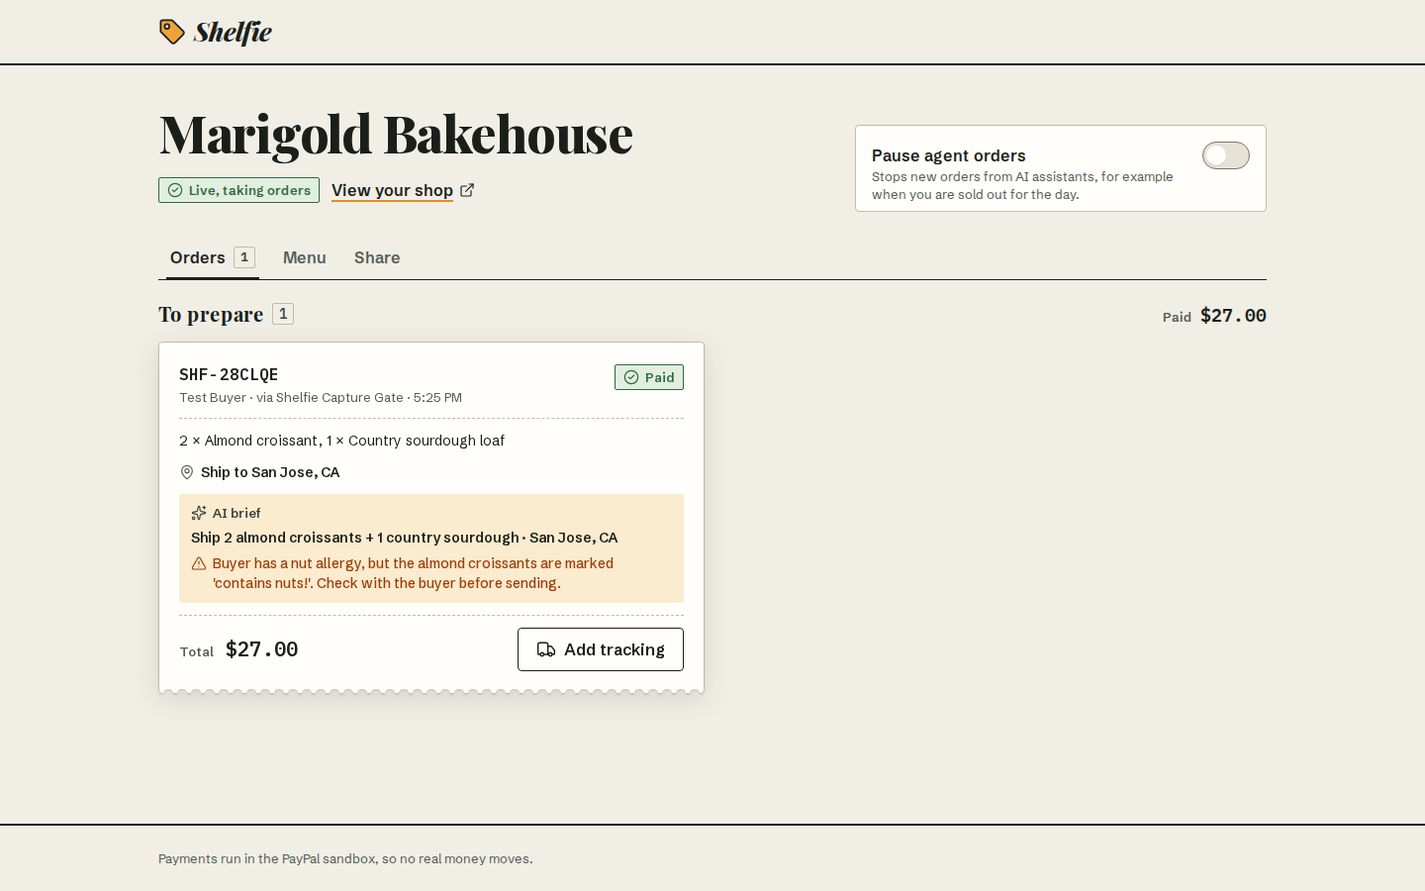
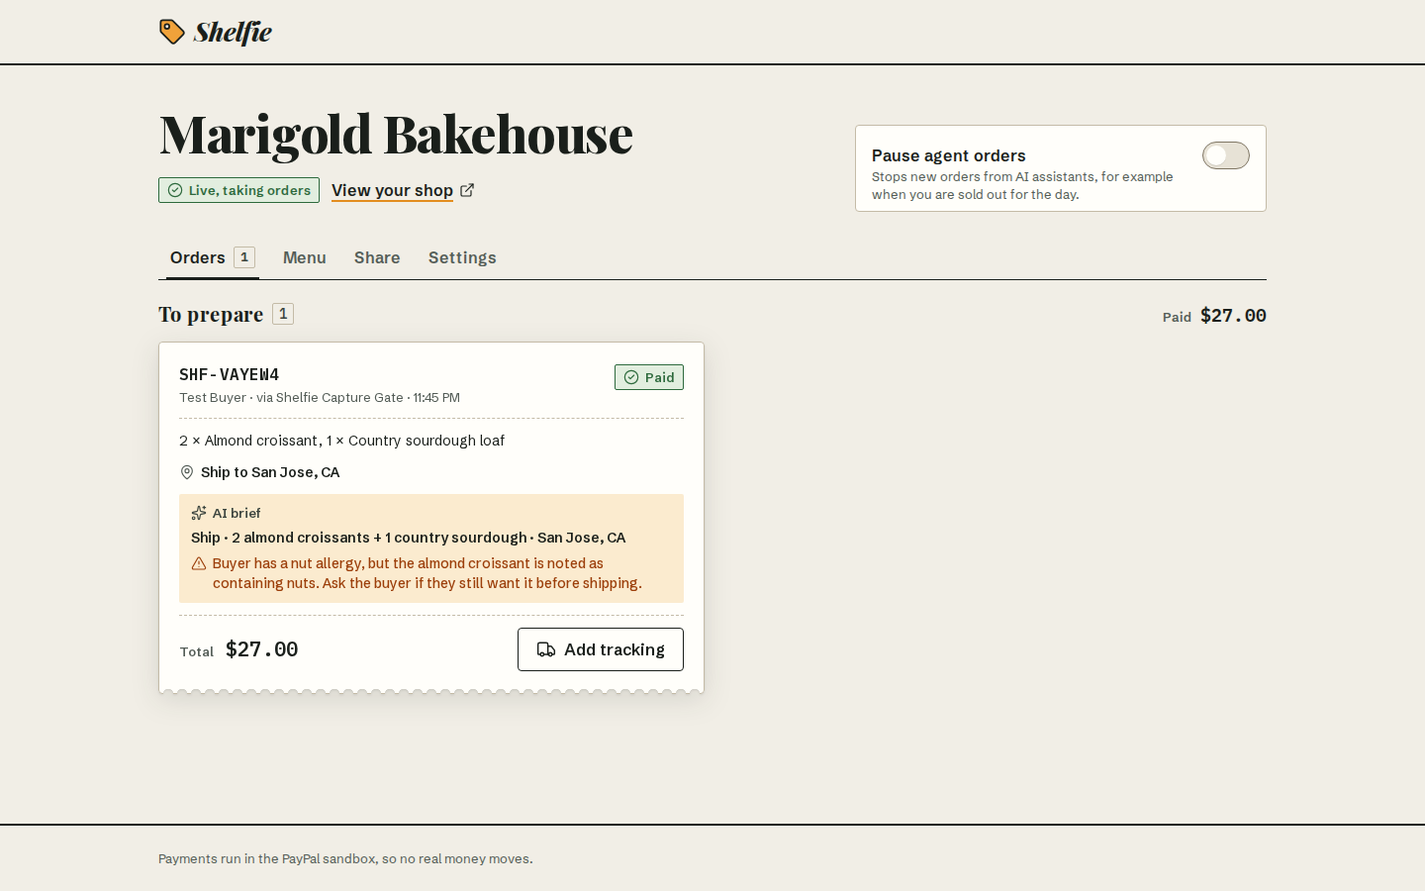
Autosave after agent session 1

diff --git a/scripts/clips/stage.ts b/scripts/clips/stage.ts
@@ -1,0 +1,138 @@
+// Screen-clip stage for the demo video (docs/DEMO.md, video/clips/README.md).
+//
+// A virtual X display (Xvfb) at 1920x1080, a real headed Chromium driven by Playwright, and ffmpeg's x11grab
+// recording the whole display at a constant 30 fps into H.264 MP4. Phone shots put a 390x844 browser window in
+// the middle of a full-screen backdrop window, so every clip is 1920x1080 and edits together.
+//
+// Needs: Xvfb, ffmpeg (with libx264), xterm for terminal shots (`sudo apt-get install -y xvfb ffmpeg xterm`).
+import { spawn, type ChildProcess } from 'node:child_process';
+import fs from 'node:fs';
+import path from 'node:path';
+import { chromium, type BrowserContext, type Frame, type Page } from '@playwright/test';
+
+export const W = 1920;
+export const H = 1080;
+export const FPS = 30;
+export const PHONE = { width: 390, height: 844 };
+/** The backdrop behind phone shots: the app's newsprint ground (docs/DESIGN.md), so edits don't flash. */
+const BACKDROP = '#efe9dc';
+
+const sleep = (ms: number) => new Promise((r) => setTimeout(r, ms));
+
+export interface Display {
+  name: string;
+  stop(): Promise<void>;
+}
+
+/** Starts Xvfb on `name` (e.g. ":97") at 1920x1080x24 and waits until it accepts clients. */
+export async function startDisplay(name = ':97'): Promise<Display> {
+  const lock = `/tmp/.X${name.slice(1)}-lock`;
+  if (fs.existsSync(lock)) throw new Error(`display ${name} is in use (${lock}); pick another with --display`);
+  const proc = spawn('Xvfb', [name, '-screen', '0', `${W}x${H}x24`, '-nolisten', 'tcp', '-ac'], { stdio: 'ignore' });
+  for (let i = 0; i < 50 && !fs.existsSync(lock); i++) await sleep(100);
+  if (!fs.existsSync(lock)) throw new Error('Xvfb did not start');
+  await sleep(300);
+  return {
+    name,
+    async stop() {
+      proc.kill('SIGTERM');
+      await sleep(300);
+    },
+  };
+}
+
+export interface Capture {
+  file: string;
+  stop(): Promise<void>;
+}
+
+/** Records the whole display to `file` (MP4, H.264, yuv420p, 30 fps) until stop(). */
+export function startCapture(display: Display, file: string): Capture {
+  fs.mkdirSync(path.dirname(file), { recursive: true });
+  const ff: ChildProcess = spawn(
+    'ffmpeg',
+    ['-y', '-loglevel', 'error', '-f', 'x11grab', '-draw_mouse', '0', '-framerate', String(FPS), '-video_size', `${W}x${H}`,
+      '-i', `${display.name}.0`, '-c:v', 'libx264', '-preset', 'veryfast', '-crf', '18', '-pix_fmt', 'yuv420p', '-r', String(FPS),
+      '-movflags', '+faststart', file],
+    { stdio: ['pipe', 'ignore', 'inherit'] },
+  );
+  return {
+    file,
+    async stop() {
+      const done = new Promise<void>((r) => ff.once('exit', () => r()));
+      ff.stdin?.write('q');
+      ff.stdin?.end();
+      await Promise.race([done, sleep(10_000).then(() => ff.kill('SIGKILL'))]);
+    },
+  };
+}
+
+export interface Stage {
+  context: BrowserContext;
+  page: Page;
+  /** Where the app runs for phone shots: an iframe on the app's own origin (so its cookies are first-party). */
+  app: Page | Frame;
+  close(): Promise<void>;
+}
+
+/**
+ * Opens a headed Chromium filling the display in kiosk mode (a persistent context, so the first window honours
+ * --kiosk and shows no browser chrome). `phone`: the page is a stage on the app's own origin, served by Playwright
+ * (no app route), holding a 390x844 iframe scaled to fill the frame's height; drive the app through `stage.app`.
+ */
+export async function openStage(display: Display, kind: 'desktop' | 'phone', opts: { origin: string; profileDir: string; storageState?: string }): Promise<Stage> {
+  fs.rmSync(opts.profileDir, { recursive: true, force: true });
+  const context = await chromium.launchPersistentContext(opts.profileDir, {
+    headless: false,
+    env: { ...process.env, DISPLAY: display.name },
+    viewport: null,
+    locale: 'en-US',
+    timezoneId: 'America/Los_Angeles',
+    args: ['--kiosk', '--window-position=0,0', `--window-size=${W},${H}`, '--no-first-run', '--no-default-browser-check',
+      '--disable-infobars', '--hide-crash-restore-bubble', '--force-device-scale-factor=1', '--hide-scrollbars'],
+  });
+  if (opts.storageState) {
+    const state = JSON.parse(fs.readFileSync(opts.storageState, 'utf8')) as { cookies: Parameters<BrowserContext['addCookies']>[0] };
+    await context.addCookies(state.cookies);
+  }
+  const page = context.pages()[0] ?? (await context.newPage());
+  let app: Page | Frame = page;
+  if (kind === 'phone') {
+    const stageUrl = `${opts.origin}/__clip_stage`;
+    const scale = ((H - 40) / PHONE.height).toFixed(4);
+    await page.route(stageUrl, (route) =>
+      route.fulfill({
+        contentType: 'text/html',
+        body: `<!doctype html><html><body style="margin:0;background:${BACKDROP};width:100vw;height:100vh;overflow:hidden;display:grid;place-items:center">
+<iframe id="phone" src="about:blank" style="width:${PHONE.width}px;height:${PHONE.height}px;border:0;border-radius:28px;background:#fff;transform:scale(${scale});box-shadow:0 18px 50px rgba(40,30,10,.18)"></iframe></body></html>`,
+      }),
+    );
+    await page.goto(stageUrl);
+    app = page.frame({ url: 'about:blank' })!;
+  }
+  return {
+    context,
+    page,
+    app,
+    async close() {
+      await context.close();
+    },
+  };
+}
+
+/** Navigates the stage's app (the page itself, or the phone iframe) and waits for it to load. */
+export async function goApp(stage: Stage, url: string): Promise<void> {
+  if ('goto' in stage.app && stage.app === stage.page) {
+    await stage.page.goto(url);
+    return;
+  }
+  const frame = stage.app as Frame;
+  await frame.goto(url);
+}
+
+/** Types like a person, one character at a time, into `selector` in the page or the phone frame. */
+export async function typeSlowly(where: Page | Frame, selector: string, text: string, delayMs = 45) {
+  await where.locator(selector).pressSequentially(text, { delay: delayMs });
+}
+
+export { sleep };

diff --git a/e2e/capture.spec.ts b/e2e/capture.spec.ts
@@ -213,16 +213,26 @@ interface GateRun {
 }
 
 /**
- * The seller's own pages show them their full PayPal email. In the seller gate that is the sandbox seller's login, so
- * it is replaced on screen before a screenshot is taken (and the replacement says so).
+ * In the seller gate two sandbox logins reach the seller's own pages: the seller's PayPal email ("Paid to") and the
+ * buyer's PayPal email (PayPal's payer record, shown under Buyer). Both are replaced on screen before a screenshot is
+ * taken, and the replacement says so, so committed screenshots never publish a sandbox login.
  */
-async function redactSellerEmail(page: Page): Promise<void> {
-  await page.evaluate((email) => {
+async function redactSandboxLogins(page: Page): Promise<void> {
+  const logins = [SELLER, BUYER?.email.toLowerCase()].filter((e): e is string => Boolean(e));
+  await page.evaluate((emails) => {
+    const esc = (x: string) => x.replace(/[.*+?^${}()|[\]\\]/g, '\\$&');
     const walker = document.createTreeWalker(document.body, NodeFilter.SHOW_TEXT);
     for (let n = walker.nextNode(); n; n = walker.nextNode()) {
-      if (n.nodeValue && n.nodeValue.toLowerCase().includes(email)) n.nodeValue = n.nodeValue.replace(new RegExp(email.replace(/[.*+?^${}()|[\]\\]/g, '\\$&'), 'gi'), '[sandbox seller email, hidden in this screenshot]');
+      for (const email of emails) {
+        if (n.nodeValue && n.nodeValue.toLowerCase().includes(email)) {
+          n.nodeValue = n.nodeValue.replace(new RegExp(esc(email), 'gi'), '[sandbox login, hidden in this screenshot]');
+        }
+      }
     }
-  }, SELLER!);
+    for (const a of Array.from(document.querySelectorAll('a[href^="mailto:"]'))) {
+      if (emails.some((e) => a.getAttribute('href')!.toLowerCase().includes(e))) a.setAttribute('href', 'mailto:hidden');
+    }
+  }, logins);
 }
 
 /** Steps 2–7, shared by both gates. */
@@ -299,6 +309,7 @@ async function runGate(page: Page, info: TestInfo, origin: string, run: GateRun)
     ).toBeVisible();
     if (mode === 'seller') expect((await page.locator('body').innerText()).includes(SELLER!)).toBe(false); // masked only
     await settle(page);
+    if (mode === 'seller') await redactSandboxLogins(page);
     await shot(page, 'receipt-paid', true);
 
     const stored = await storedOrder(api, origin, shop.id, order.order_ref);
@@ -363,7 +374,7 @@ async function runGate(page: Page, info: TestInfo, origin: string, run: GateRun)
     await expect(card).toContainText(HAS_CLAUDE ? 'AI brief' : 'Summary');
     await expect(card).toContainText(b.headline);
     await settle(page);
-    if (mode === 'seller') await redactSellerEmail(page);
+    if (mode === 'seller') await redactSandboxLogins(page);
     await shot(page, 'dashboard-paid-brief');
 
     await page.goto(`/shops/${shop.id}/orders/${order.order_ref}`);
@@ -373,7 +384,7 @@ async function runGate(page: Page, info: TestInfo, origin: string, run: GateRun)
     expect(mode === 'seller' ? paidTo.toLowerCase() === SELLER : paidTo === 'Shelfie’s demo PayPal account', 'order page names who was paid').toBe(true);
     await expect(page.locator('section[aria-labelledby="timeline-title"]')).toContainText('Payment received');
     await settle(page);
-    if (mode === 'seller') await redactSellerEmail(page);
+    if (mode === 'seller') await redactSandboxLogins(page);
     await shot(page, 'order-paid-brief', true);
   });
 
@@ -392,7 +403,7 @@ async function runGate(page: Page, info: TestInfo, origin: string, run: GateRun)
     if (await refused.isVisible()) throw new Error(`Add tracking failed: ${await refused.innerText()}`);
     if (mode === 'seller') {
       await settle(page);
-      await redactSellerEmail(page);
+      await redactSandboxLogins(page);
       await shot(page, 'tracking-saved', true);
     }
 
@@ -404,7 +415,7 @@ async function runGate(page: Page, info: TestInfo, origin: string, run: GateRun)
     );
     if (mode === 'seller') await expect(page.getByRole('list', { name: 'Tracking' })).toContainText('Saved in Shelfie');
     await settle(page);
-    if (mode === 'seller') await redactSellerEmail(page);
+    if (mode === 'seller') await redactSandboxLogins(page);
     await shot(page, 'order-shipped', true);
 
     if (mode === 'platform') {

diff --git a/docs/DEMO.md b/docs/DEMO.md
@@ -1,46 +1,52 @@
 # Demo script (target 2:50, hard limit 3:00)
 
-_Re-time against the running app before recording. No third-party logos or copyrighted music. Every number said on camera comes from `docs/EVIDENCE.md`. Rosa is the owner persona of the seeded demo shop, Marigold Bakehouse._
+_Re-time against the running app before recording. No third-party logos or copyrighted music. Every number said on camera comes from `docs/EVIDENCE.md` or a verified run in `docs/PROGRESS.md`. Rosa is the owner persona of the seeded demo shop, Marigold Bakehouse. Raw screen clips of each shot (1920x1080, 30 fps) are listed in `video/clips/README.md`; record them with `npm run clips`._
 
 ## The one idea to land
-PayPal's agent checkout reaches merchants who already have a website store. Rosa has a sheet of paper. Shelfie turns that sheet into a PayPal shop with an **agent door** that any AI assistant can order through, and the money goes through PayPal Orders v2.
+PayPal's agent checkout reaches merchants who already have a website store. Rosa has a sheet of paper. Shelfie turns that sheet into a PayPal shop with an **agent door** that any AI assistant can find and order through, and the money goes straight into **Rosa's own PayPal account** through PayPal Orders v2.
 
 ## Setup before recording
-- `.env` filled (PayPal sandbox app, `ANTHROPIC_API_KEY`). Run `npm run build && npm start` (a production build has no dev-mode compile pauses on camera). Run `npm run seed` and keep the printed owner link.
-- **Browser 1** (phone frame, 390 px): the Shelfie start page. Have the Marigold photo ready to upload, or use **Try a sample menu**. With a key set, a sample is read live by Claude (about 9 s). For an instant reading, start the server with `SHELFIE_RECORDED_SAMPLES=1`: samples then use Claude's saved reading of the photo, and the review shows a **Recorded reading** badge. Your own photo is always read live.
+- `.env` filled: the PayPal sandbox app, `ANTHROPIC_API_KEY`, `PAYPAL_SANDBOX_SELLER_EMAIL` (a US sandbox Business account: Rosa's PayPal) and `PAYPAL_SANDBOX_BUYER_EMAIL` / `_PASSWORD` (a US sandbox Personal account: the buyer).
+- Run `npm run build && npm start` (a production build has no dev-mode compile pauses on camera). Run `npm run seed` and keep the printed owner link. The seed prints `Paid to: the sandbox seller's own PayPal account (…)`: the demo shop is then paid like any seller's shop. Run `npm run seed -- --cancel-unpaid` to clear rehearsal orders (one caller can hold 3 unpaid orders).
+- **Browser 1** (phone frame, 390 px): the Shelfie start page. Use **Try a sample menu**, or have the Marigold photo ready to upload. With a key set, a sample is read live by Claude (about 9 s). For an instant reading, start the server with `SHELFIE_RECORDED_SAMPLES=1`: samples then use Claude's saved reading, and the review shows a **Recorded reading** badge.
 - **Browser 2** (laptop, 1440 px): the seeded shop at `http://localhost:3000/s/marigold-bakehouse`, and the dashboard opened through the owner link.
-- **Terminal** (large font): an empty folder holding a copy of `docs/judge/evidence/claude-code-mcp.json` with its URL changed to `http://localhost:3000/s/marigold-bakehouse/mcp`. Paste this command but don't run it yet:
-  `claude -p "Order two butter croissants for Saturday pickup from this bakery. Name Sam Lee, sam@example.com. No need to check back with me." --mcp-config claude-code-mcp.json --strict-mcp-config --allowedTools "mcp__marigold-bakehouse__*"`
-- **MCP Inspector** open on the same door URL, with a `create_order` call prepared that includes `"price": 0.01`.
-- **Payment:** PayPal guest card checkout. Choose country United States, test Visa `4012000033330026`, expiry 12/30, CVV 123 and a US address, switch "Save info & create your PayPal account" off, then Pay Now. Rehearse it once, then **cut the form out of the video** (see 1:20).
-- The printed or handwritten Marigold menu (or the photo on a second screen) for the opening shot.
+- **Terminal** (large font) in an **empty folder outside the repo** (so Claude Code reads no project files). Paste this but don't run it yet:
+  `claude -p "There's a bakery I like at http://localhost:3000/s/marigold-bakehouse . Please order two almond croissants for pickup, under the name Sam. Any total under \$15 is fine, so you don't need to check back: place the order and give me the PayPal link." --strict-mcp-config --allowedTools "Bash(curl:*)"`
+  It has no MCP servers configured: it gets **only the shop URL**.
+- A second terminal with the price-tamper `curl` ready (see 1:42), or MCP Inspector on the door URL with a `create_order` call that includes `"price": 0.01`.
+- **Payment:** log in on PayPal's page as the sandbox buyer and click **Complete Purchase**. Rehearse once; on camera, **cut out the login typing** (it shows the sandbox login).
+- The printed counter card (Share tab → **Print counter card**) and the handwritten Marigold menu for the opening and 0:38 shots.
 
 ## Shots
 
 | Time | Screen | Voice-over |
 |---|---|---|
-| 0:00–0:12 | The handwritten Marigold menu on a counter. On-screen text: *"PayPal's agent checkout: limited to Store Sync customers… with existing website storefronts."* (PayPal Developer blog, Sep 2026). | "AI assistants have started shopping for people. PayPal's agent checkout is built for merchants with a website store. Rosa runs a bakery from her kitchen. She doesn't have a website. She has this sheet." |
-| 0:12–0:22 | Phone: **Snap your price list** → photo → *Reading your menu…*. Cut on the result (reading takes about 6–9 s). | "One photo. Claude reads it." |
-| 0:22–0:38 | Review: the plain questions ("Printed as “2 for $7”. We set $3.50 each. Is that right?", "A price is crossed out…"). Tap **Looks right**, then **Publish** → the *Adding to PayPal…* progress → live. | "Shelfie only asks about what it isn't sure of. Every item becomes a product in PayPal's catalog. Photo to live shop: about 10 seconds of machine time." |
-| 0:38–0:45 | Live step: the agent door link. | "And the shop gets an agent door." |
-| 0:45–1:02 | **Any assistant.** Terminal: run the prepared `claude -p …` command. Claude Code calls `get_shop_info` → `list_products` → `create_order` and prints a PayPal approval link (about 18 s; speed it up 2×). | "That's Claude Code, a stranger to this shop, with no Shelfie code. It finds the croissants, orders, and gets a PayPal approval link." |
-| 1:02–1:35 | **Wow.** Laptop: the shop page → **Order with an assistant**. Type "Two almond croissants and a sourdough, shipped to me. I have a nut allergy." The **Activity** panel shows each call to the door. The assistant reads the order back with the $8 shipping fee. Say "yes" → `create_order` → **Approve on PayPal**. PayPal's page shows the shop's items and total. **Jump cut** past the card form to the receipt, stamped **PAID**, while the console card turns to "Paid · View receipt". | "Our own buyer console works the same way, for buyers without an assistant. The buyer approves on PayPal, and only then does Shelfie capture the money." |
-| 1:35–1:47 | Inspector: `create_order` with `"price": 0.01` → `INVALID_ARGUMENTS`, "`price` is not accepted". | "Agents can't set prices. The server enforces that, not the model." |
-| 1:47–2:12 | Dashboard (laptop): the **To prepare** group with its paid subtotal, and the new slip with its AI brief: *"Buyer mentions a nut allergy, but almond croissants contain nuts."* Open the order: the Total, the PayPal order and capture ids, and the timeline. | "Rosa's dashboard gets a brief from a Claude agent that reads PayPal's own record of the order through the PayPal Agent Toolkit, and catches the allergy." |
-| 2:12–2:30 | **Add tracking** → USPS + number → *Saved to PayPal*. On the laptop, ask the assistant "Where's my order?" → `get_order_status` → the tracking number. | "Tracking goes to PayPal, and the buyer's assistant reads it back." |
-| 2:30–2:50 | Architecture card: photo → Claude vision → PayPal Catalog Products → agent door (MCP) → PayPal Orders v2 → capture → Agent Toolkit brief and tracking. | "Shelfie: prepaid orders from a photo of your price list, through any AI assistant, paid with PayPal. For the sellers agent commerce hasn't reached yet." |
+| 0:00–0:10 | The handwritten Marigold menu on a counter. On-screen text: *"PayPal's agent checkout: limited to Store Sync customers… with existing website storefronts."* (PayPal Developer blog, Sep 2026). | "AI assistants have started shopping for people. PayPal's agent checkout is built for merchants with a website store. Rosa bakes from her kitchen. She doesn't have a website. She has this sheet." |
+| 0:10–0:19 | Phone: **Snap your price list** → photo → *Reading your menu…*. Cut on the result (about 6–9 s). | "One photo. Claude reads it." |
+| 0:19–0:36 | Review: the plain questions ("Printed as “2 for $7”. We set $3.50 each. Is that right?"). Tap **Looks right**. Type **Your PayPal email** (Rosa's). **Publish** → *Adding to PayPal…* → live. | "Shelfie only asks about what it isn't sure of. Rosa adds her PayPal email, so buyers pay her directly. Every item becomes a product in PayPal's catalog. Photo to live shop: about 10 seconds of machine time." |
+| 0:36–0:46 | Laptop: Share tab → **Print counter card** → the card: shop name, "Order ahead with any AI assistant, pay with PayPal", the QR code. Then the printed card next to the till. | "The shop gets an agent door, and a card for the counter. Regulars scan it, or just give the shop's link to their assistant." |
+| 0:46–1:06 | **Found, not handed.** Terminal: run the prepared `claude -p …`. It fetches the shop page, says *"There's an MCP agent door"*, calls `get_shop_info` → `list_products` → `create_order`, and prints a PayPal link (about 23 s; speed it up 2×). | "That's Claude Code, given nothing but the shop's web address. The page tells it where the agent door is. It orders, and gets a PayPal approval link." |
+| 1:06–1:42 | **Wow.** Laptop: the shop page → **Order with an assistant**. Type "Two almond croissants and a sourdough, shipped to me. I have a nut allergy." The **Activity** panel shows each call to the door. The assistant reads the order back with the $8 shipping. Say "yes" → `create_order` → **Approve on PayPal**. PayPal's page shows Marigold Bakehouse, the items and the total. **Jump cut** past the login to **Complete Purchase**, then the receipt stamped **PAID**: *"Paid to Marigold Bakehouse's own PayPal account (r•••@…)"*. The console card turns to "Paid · View receipt". | "Our own buyer console works the same way, for buyers without an assistant. The buyer approves on PayPal, Shelfie captures, and the money lands in Rosa's PayPal account, not ours." |
+| 1:42–1:52 | Terminal: `create_order` with `"price": 0.01` → `INVALID_ARGUMENTS`, "`price` is not accepted; prices are set by the shop". | "Agents can't set prices. The server enforces that, not the model." |
+| 1:52–2:14 | Dashboard (laptop): the **To prepare** group with its paid subtotal, and the new slip with its AI brief: *"Buyer mentions a nut allergy, but almond croissants contain nuts."* Open the order: **Paid to** Rosa's PayPal email, the PayPal order and transaction ids, the timeline. | "Rosa's dashboard gets a brief from a Claude agent that reads PayPal's own record of the order through the PayPal Agent Toolkit, and catches the allergy." |
+| 2:14–2:30 | **Add tracking** → USPS + number → *Saved*. In the console, "Where's my order?" → `get_order_status` → the tracking number. | "She adds tracking, and the buyer's assistant reads it back." |
+| 2:30–2:50 | Architecture card: photo → Claude vision → PayPal Catalog Products → agent door (MCP), found from the shop page → PayPal Orders v2, paid to the seller → capture → Agent Toolkit brief. | "Shelfie: prepaid orders from a photo of your price list, through any AI assistant, paid into your own PayPal account. For the sellers agent commerce hasn't reached yet." |
 
-## Facts we may say (from `docs/EVIDENCE.md`)
+## Facts we may say (from `docs/EVIDENCE.md` and verified runs)
 - PayPal's agent checkout "is limited to Store Sync customers today", for merchants "using their existing website storefronts" (PayPal Developer blog, Sep 2026).
 - 47% of US accommodation and food-service employer firms reported having no website (Census ASE, data year 2016).
 - A Virginia home baker took orders by "text messages and Facebook messages and Instagram DMs ... And then tracking them on a spreadsheet" (Radio IQ, Jul 2026). This fits as on-screen text over the opening shot.
 - Photo to live shop took 8 to 14 s of machine time over 6 measured runs (reading 6.5 to 9.4 s, publishing 1.5 to 3.7 s). This doesn't include the seller's own review time.
+- Claude Code, given only the shop URL, found the door and ordered in 22.9 s (`docs/judge/evidence/discovery-claude-code.md`).
+- Payments go to the seller's own PayPal account, verified in the sandbox with a US buyer paying a US seller by PayPal login (`docs/PROGRESS.md`).
 - Never say "95% of merchants see agent traffic"; the source says "at least partial visibility".
-- Don't claim webhooks, wallet-login payments, a deployed URL, or paying each seller directly. None of these is verified (see `docs/PROGRESS.md`).
+- Don't claim webhooks or a deployed URL: neither is verified. Don't say tracking goes to PayPal for Rosa's orders: PayPal accepts tracking only from the account that was paid, so Shelfie saves it and tells her to add it in PayPal too.
 
 ## If something breaks on the day
-- One caller can hold 3 unpaid orders per shop (the shop as a whole 10), and unpaid orders expire after 60 minutes. Before recording, run `npm run seed -- --cancel-unpaid` (it cancels the demo shop's unpaid rehearsal orders), or the assistant will say "You already have 3 orders waiting for payment".
+- One caller can hold 3 unpaid orders per shop (the shop as a whole 10), and unpaid orders expire after 60 minutes. Before recording, run `npm run seed -- --cancel-unpaid`, or the assistant will say "You already have 3 orders waiting for payment".
 - If PayPal's sandbox page is slow, cut from **Approve on PayPal** straight to the receipt of an order paid earlier.
-- If Claude is slow on reading, cut on the result, or restart with `SHELFIE_RECORDED_SAMPLES=1` and use **Try a sample menu** (Claude's saved reading, instant, labelled **Recorded reading** on screen; say it was recorded).
-- If the Claude Code run is slow, show the recorded run in `docs/judge/evidence/outside-client-claude-code.md` (15.9 s of agent time, real approval link) and say it was recorded.
-- The brief takes about 10 s after payment (measured on real orders). Record the dashboard shot after it appears. If Claude is down, a labelled template brief is stored instead.
+- If PayPal says "This seller doesn't accept payments in your currency", the buyer and seller sandbox accounts are in countries PayPal won't pair (India to India is one). Use the US accounts.
+- If Claude is slow on reading, cut on the result, or restart with `SHELFIE_RECORDED_SAMPLES=1` and use **Try a sample menu** (Claude's saved reading, instant, labelled **Recorded reading**; say it was recorded).
+- If the Claude Code run is slow or goes another way, show the recorded run in `docs/judge/evidence/discovery-claude-code.md` (22.9 s, real approval link) and say it was recorded.
+- The brief takes about 10 s after payment. Record the dashboard shot after it appears. If Claude is down, a labelled template brief is stored instead.
+- To show tracking reaching PayPal itself, unset `PAYPAL_SANDBOX_SELLER_EMAIL` and re-run the seed: the demo shop is then paid to Shelfie's own account, where the Agent Toolkit adds the tracker (and guest card checkout works).
